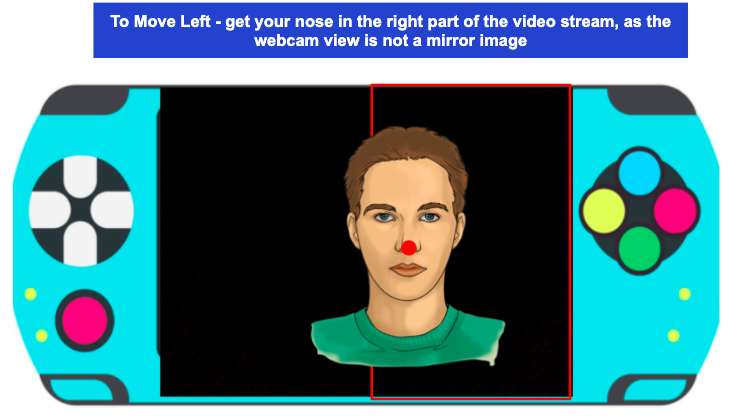
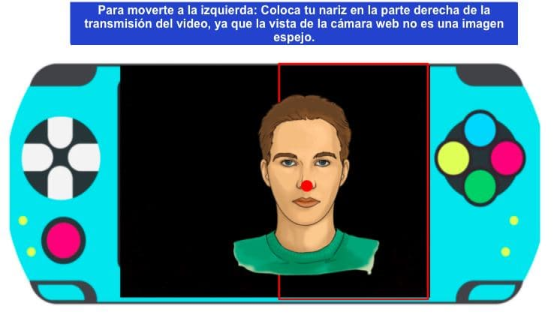
Traducción def

diff --git a/characters_environment.js b/characters_environment.js
@@ -72,7 +72,7 @@ function game(){
     fill(255, 255, 255);
     textSize(40);
     textAlign(CENTER);
-    text("Press Play Button To Start The Game ", gameConfig.screenX/2, gameConfig.screenY/2);
+    text("Presiona el botón de inicio para iniciar el juego ", gameConfig.screenX/2, gameConfig.screenY/2);
     textSize(40);
 
     stroke(255);
@@ -100,12 +100,12 @@ function game(){
     fill(255, 255, 255);
     textSize(40);
     textAlign(CENTER);
-    text("GAME OVER", gameConfig.screenX/2, gameConfig.screenY/2+105);
+    text("FIN DEL JUEGO", gameConfig.screenX/2, gameConfig.screenY/2+105);
     textSize(15);
-    text("Press SPACE to Restart", gameConfig.screenX/2, gameConfig.screenY/2+135);
+    text("Presiona ESPACIO para reiniciar", gameConfig.screenX/2, gameConfig.screenY/2+135);
     textSize(40);
     text(round(gameConfig.scores),gameConfig.screenX/2,gameConfig.screenY/2-35);
-    text("points",gameConfig.screenX/2,gameConfig.screenY/2);
+    text("puntos",gameConfig.screenX/2,gameConfig.screenY/2);
 
     stroke(255);
     strokeWeight(7);
@@ -118,13 +118,13 @@ function game(){
 function startGame()
 {
   GameStatus = "start";
-  document.getElementById("status").innerHTML = "Game Is Loading";
+  document.getElementById("status").innerHTML = "El juego se está cargando";
 }
 
 // cambia el estado del juego si cualquier tecla se presiona
 function changeGameStatud(character){
  if(noseX !="" && gameConfig.status==="start" && GameStatus=="start") { 
-   document.getElementById("status").innerHTML = "Game Is Loaded";
+   document.getElementById("status").innerHTML = "El juego se está cargando";
    world_start.play();
  initializeCharacterStatus(ninja)
     gameConfig.status= "play"
@@ -590,8 +590,8 @@ function scores(character){
 
   if(character.live&&gameConfig.status==='play') gameConfig.timeScores+=0.05;
   
-  text("scores: "+round(gameConfig.scores),20,40);
-  text("lives: "+character.liveNumber,20,80);
+  text("Puntuaciones: "+round(gameConfig.scores),20,40);
+  text("Vidas: "+character.liveNumber,20,80);
 
   if(ninja.live==false && ninja.liveNumber!=0){
     fill(0,0,0,150);
@@ -611,7 +611,7 @@ function scores(character){
     textAlign(CENTER);
     textSize(40);
     text(round(character.liveNumber),gameConfig.screenX/2,gameConfig.screenY/2-35);
-    text("lives",gameConfig.screenX/2,gameConfig.screenY/2);
+    text("vidas",gameConfig.screenX/2,gameConfig.screenY/2);
 
     
   }
